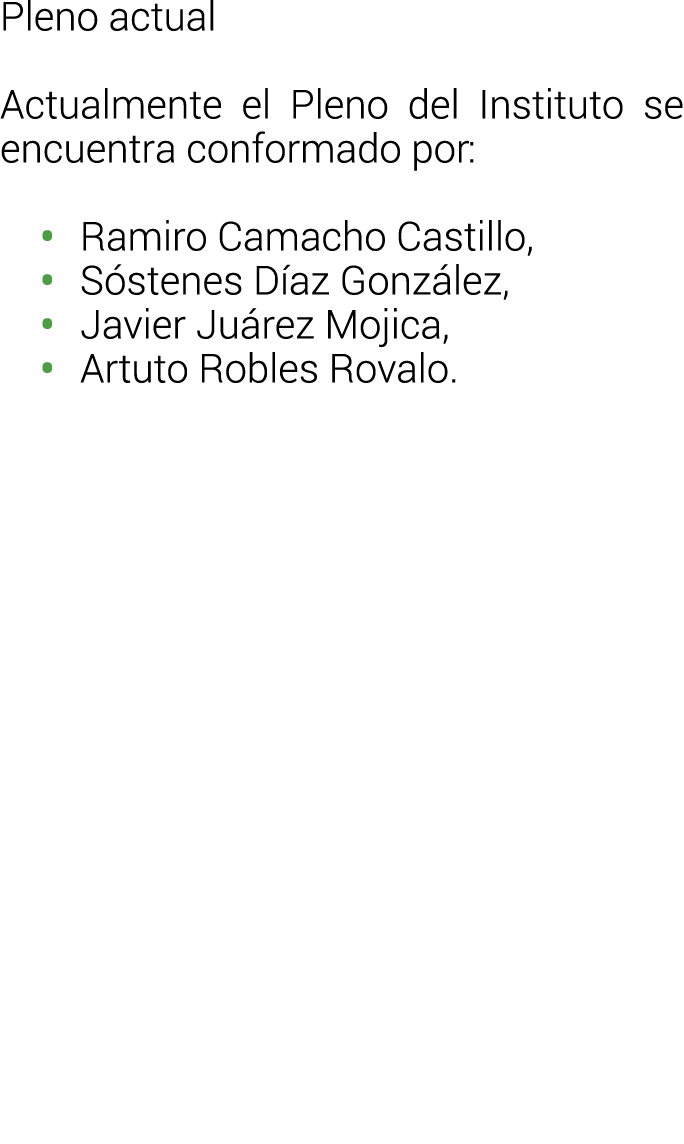
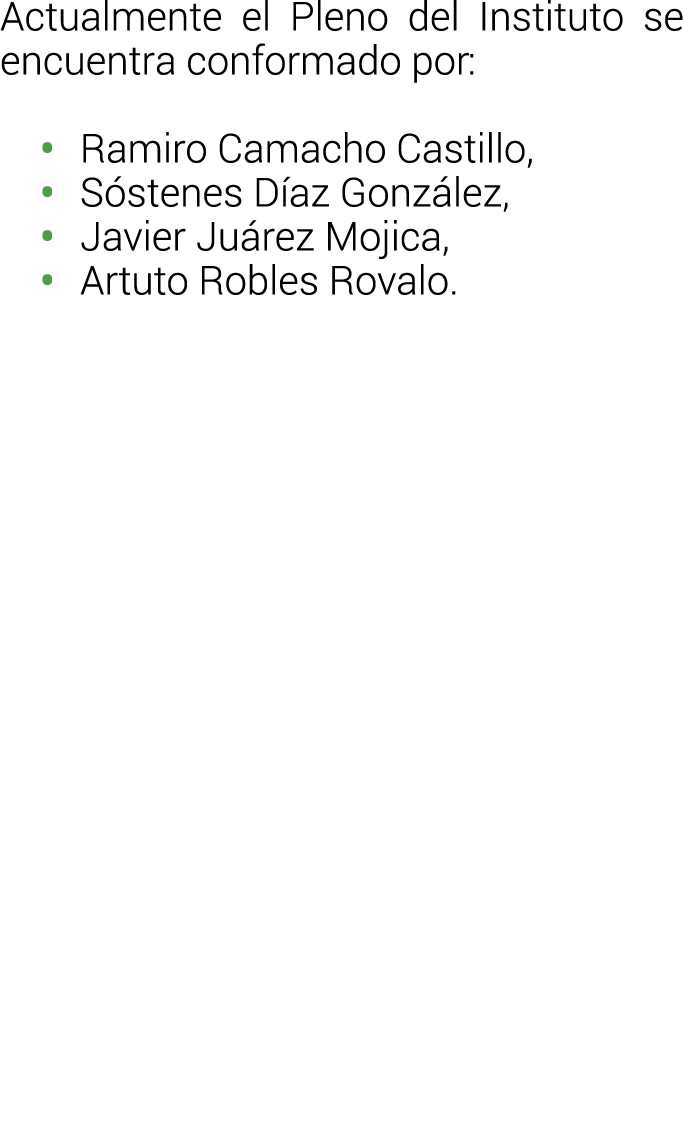
Add files via upload

diff --git a/index.html b/index.html
@@ -51,12 +51,12 @@
           <img src="assets/images/blank.gif" alt="Oval" id="item1120" class="pageItem " data-src="assets/images/item_1120.png"/>
         </div>
       </button>
-      <img src="assets/images/blank.gif" alt="Nace la Televisi n Digital Terrestre" class="pageItem hd" style="left:22px !important;top:374px !important;" id="item1187" data-src="assets/images/item_1187.png"/>
+      <img src="assets/images/blank.gif" alt="El Pleno del IFT en 2023" class="pageItem hd" style="left:22px !important;top:374px !important;" id="item1187" data-src="assets/images/item_1187.png"/>
       <img src="assets/images/blank.gif" alt="Rectangle" style="left:265px !important;top:1188px !important;" id="item1291" class="pageItem " data-src="assets/images/item_1291.png"/><a href="https://www.ift.org.mx/conocenos/pleno/integrantes-del-pleno" target="_blank">
         <img src="assets/images/blank.gif" alt="Ir al sitio" class="pageItem hd" style="left:607px !important;top:333px !important;" id="item1705" data-src="assets/images/item_1705.png"/>
       </a><img src="assets/images/blank.gif" alt="Pleno Actual" class="pageItem hd" style="left:364px !important;top:154px !important;" id="item1744" data-src="assets/images/item_1744.png"/>
       <div id="item1017" class="pageItem scroll-auto-showScroll scroll-auto_showScroll scroll" alt="Rectangle">
-        <img src="assets/images/blank.gif" alt="Pleno actual Actualmente el Pleno del Instituto se encuentra conformado por: • Ramiro Camacho Castillo, • S stenes D ..." style="width:342px !important;" id="item2325" class="pageItem " data-src="assets/images/item_2325.png"/>
+        <img src="assets/images/blank.gif" alt="Actualmente el Pleno del Instituto se encuentra conformado por: • Ramiro Camacho Castillo, • S stenes D az Gonz lez, ..." style="width:342px !important;" id="item2325" class="pageItem " data-src="assets/images/item_2325.png"/>
       </div>
       <div tabindex="-1" data-id="2788" name="Pleno Actual" alt="Pleno Actual" id="item2788" class="pageItem mso ">
         <div aria-hidden="false" class="pageItem state active" name="Estado 1">
